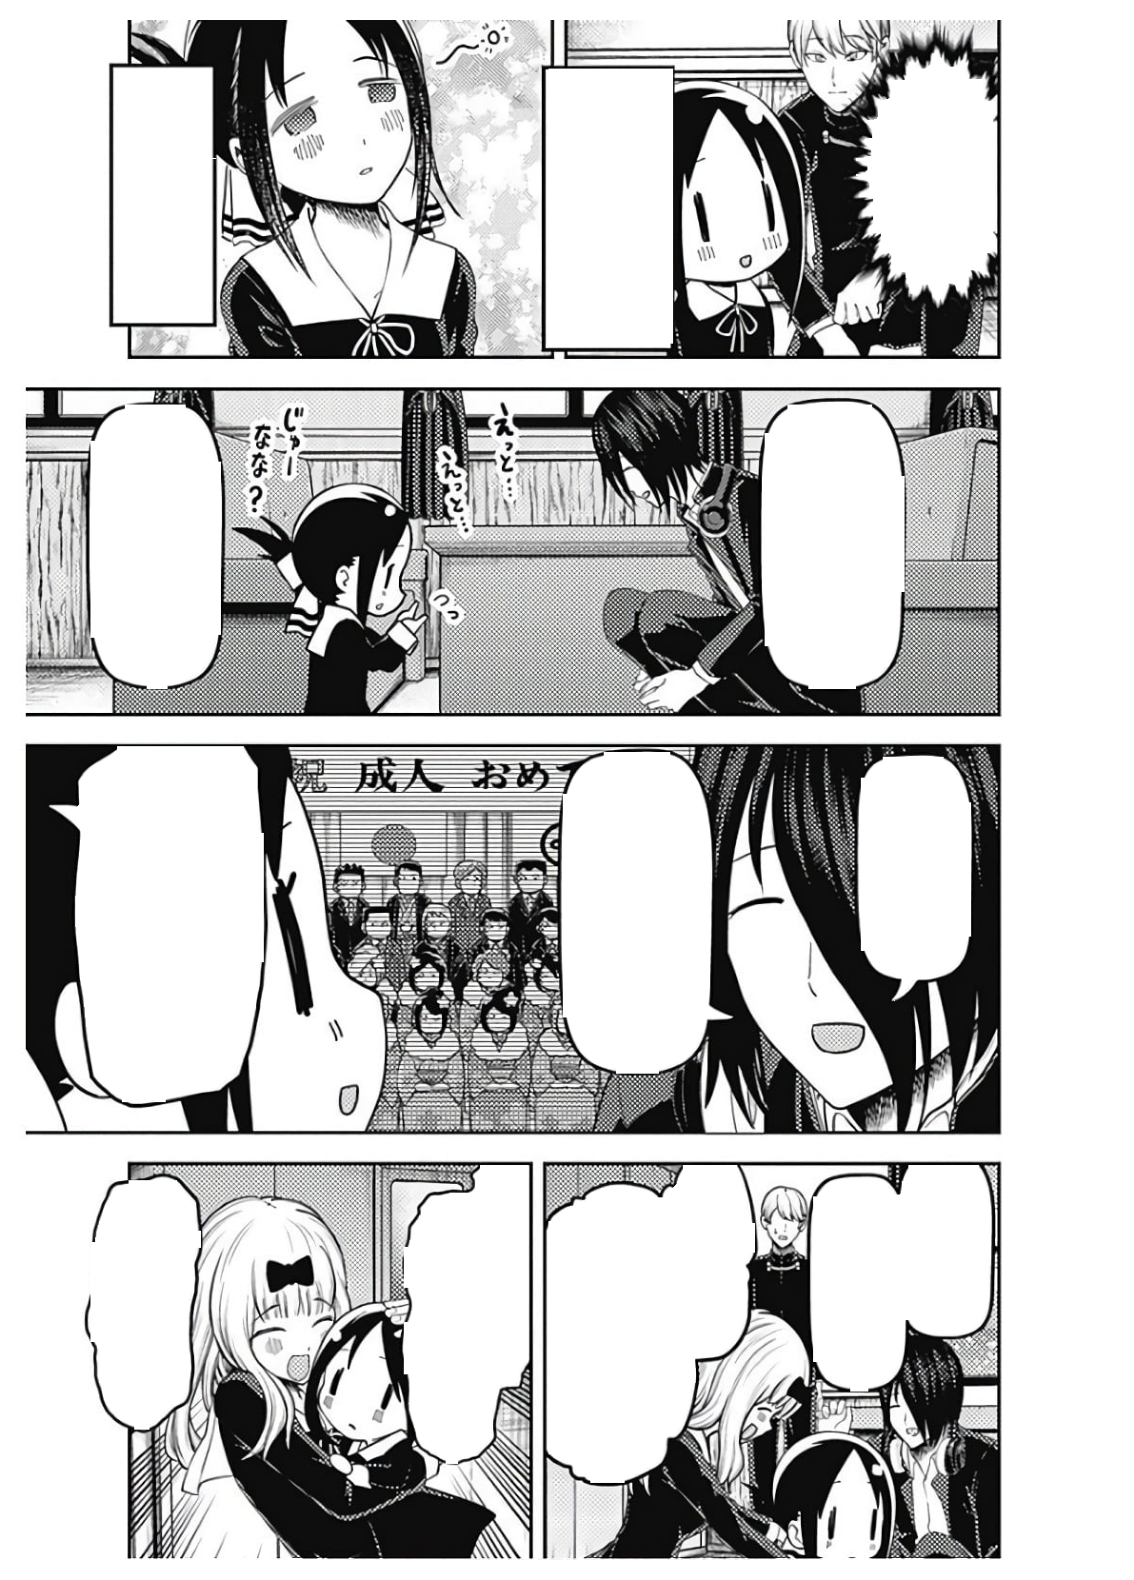
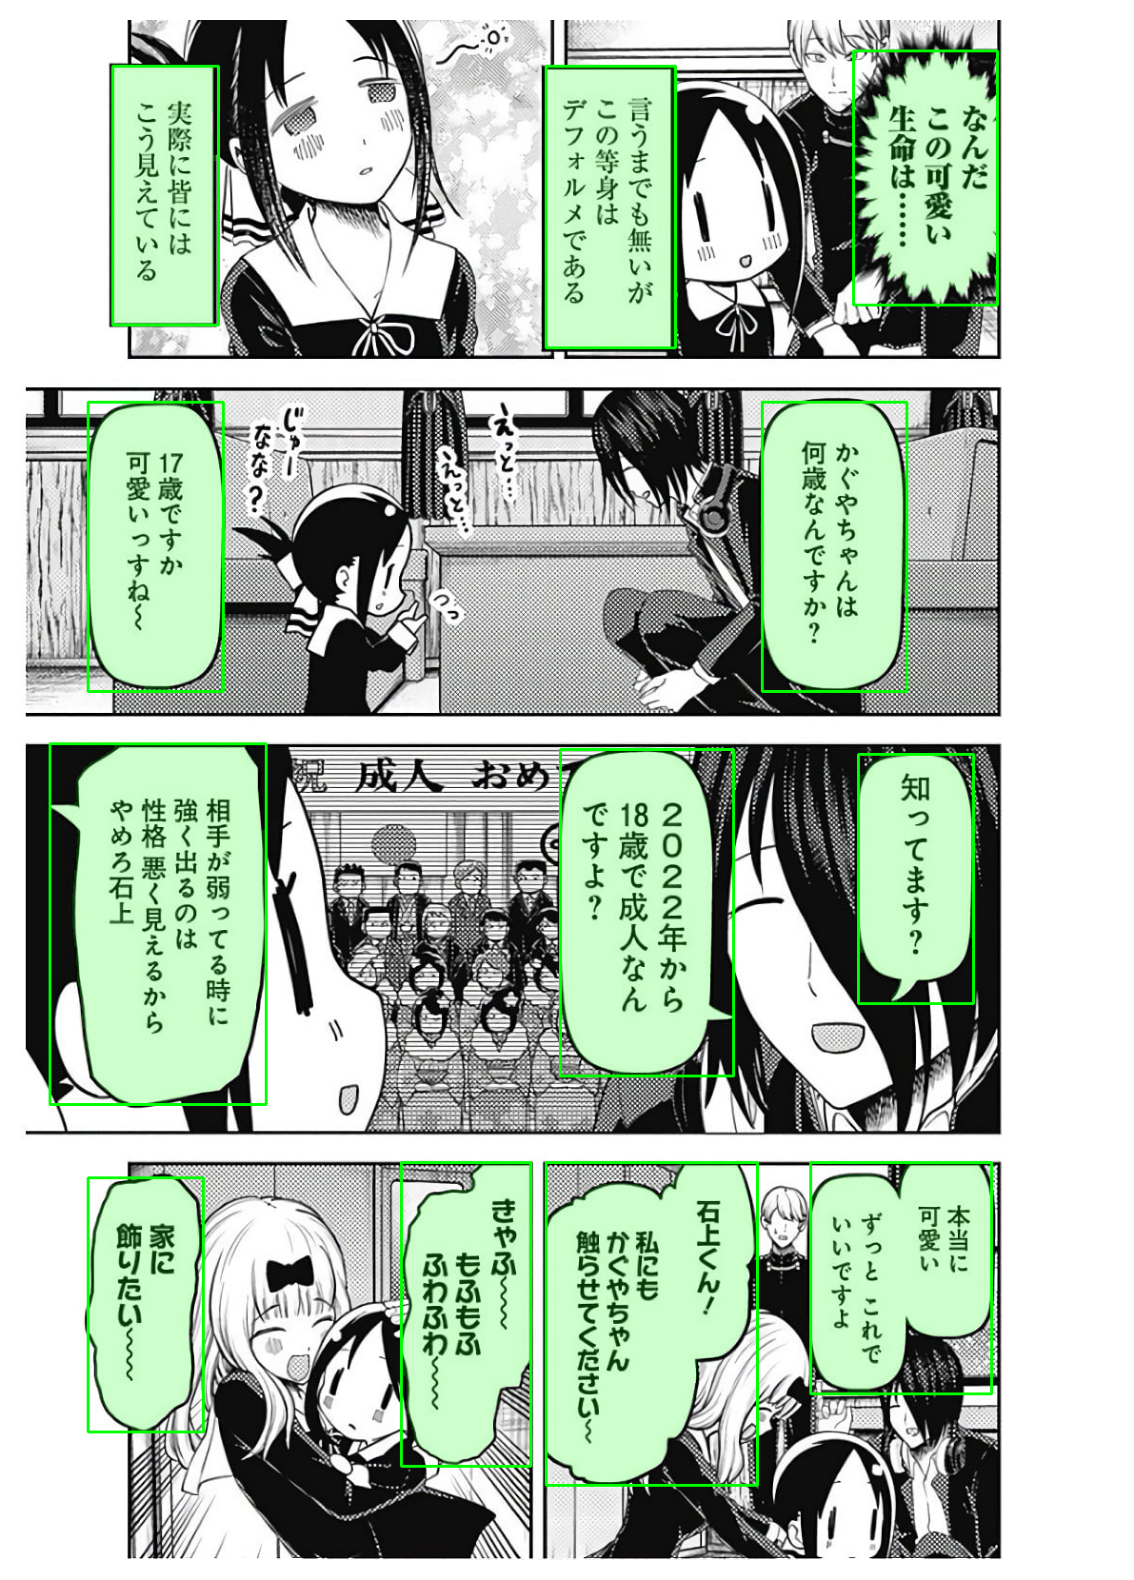
add pipelines and update overall pipeline order (#11)
* Correcting overall pipeline order

* Add OCR pipeline image and update documentation

* Add bubble segmentation pipeline image and documentation

diff --git a/sections/subsections/ocr.tex b/sections/subsections/ocr.tex
@@ -1,1 +1,8 @@
+\begin{figure}[htbp]
+    \centering
+    \includegraphics[width=\textwidth]{img/ocr_pipeline.png}
+    \caption{OCR Pipeline}
+    \label{fig:ocr_pipeline}
+\end{figure}
+
 To translate the visual content of speech bubbles into machine-readable text, we integrate the \textbf{MangaOCR} framework. While general-purpose OCR engines (e.g., Tesseract) struggle with the non-linear layout and unique typography of Japanese manga, MangaOCR is specifically architected to handle vertical text, \textbf{furigana} (pronunciation guides), and mixed writing systems.

diff --git a/sections/subsubsections/bubble-seg-pip.tex b/sections/subsubsections/bubble-seg-pip.tex
@@ -1,0 +1,8 @@
+The bubble segmentation pipeline processes raw manga pages through three sequential stages to extract individual speech bubble regions suitable for OCR processing.
+
+\begin{figure}[H]
+    \centering
+    \includegraphics[width=0.9\textwidth]{img/segmentation_pipeline.png}
+    \caption{Bubble Segmentation Pipeline}
+    \label{fig:bubble-seg-pipeline}
+\end{figure}
